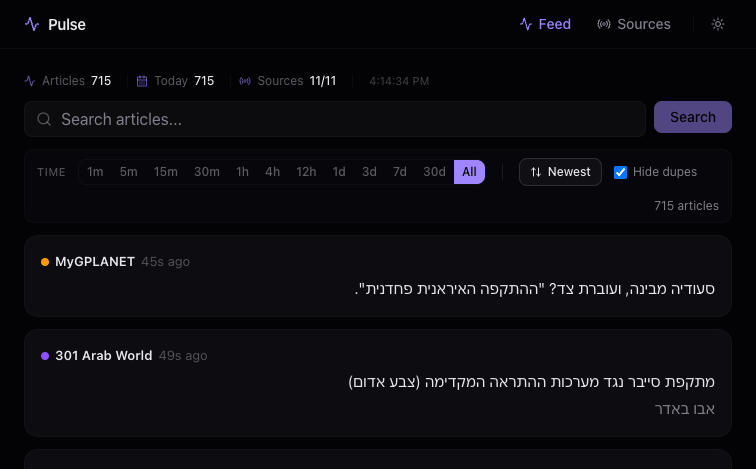
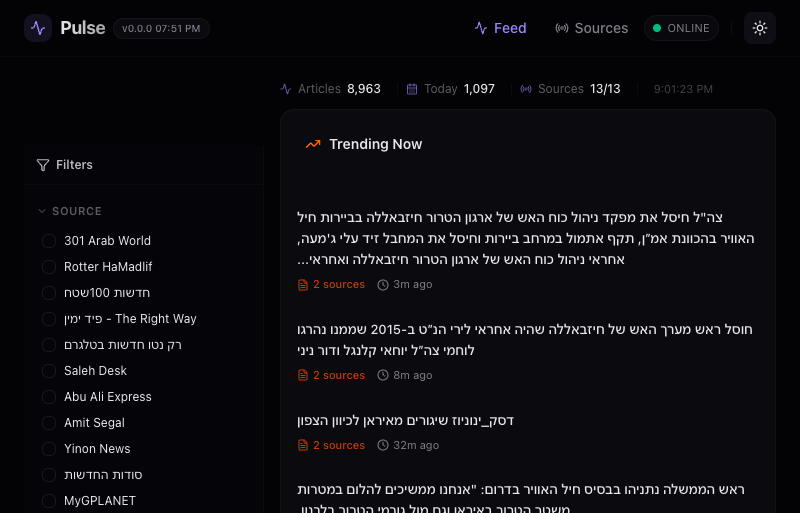
docs

diff --git a/backend/src/app/services/dedup.py b/backend/src/app/services/dedup.py
@@ -44,11 +44,30 @@ class DedupService:
         threshold = self._settings.dedup_similarity_threshold
         window_hours = self._settings.dedup_window_hours
 
-        query = text("""
+        # Build exclusion clause conditionally to avoid asyncpg
+        # AmbiguousParameterError when target_id is None (unsaved article).
+        target_id = target_article.id
+        if target_id is not None:
+            exclude_clause = "AND id != :target_id"
+            params: dict = {
+                "target_id": target_id,
+                "target_embedding": str(target_article.embedding),
+                "threshold": threshold,
+                "window_hours": window_hours,
+            }
+        else:
+            exclude_clause = ""
+            params = {
+                "target_embedding": str(target_article.embedding),
+                "threshold": threshold,
+                "window_hours": window_hours,
+            }
+
+        query = text(f"""
             SELECT id
             FROM articles
             WHERE is_duplicate = false
-              AND (:target_id IS NULL OR id != :target_id)
+              {exclude_clause}
               AND embedding IS NOT NULL
               AND published_at > now() - make_interval(hours => :window_hours)
               AND 1 - (embedding <=> cast(:target_embedding AS vector)) > :threshold
@@ -56,15 +75,7 @@ class DedupService:
             LIMIT 1
         """)
 
-        result = await self.db.execute(
-            query,
-            {
-                "target_id": target_article.id,
-                "target_embedding": str(target_article.embedding),
-                "threshold": threshold,
-                "window_hours": window_hours,
-            },
-        )
+        result = await self.db.execute(query, params)
         row = result.first()
         if row is None:
             return None

diff --git a/README.md b/README.md
@@ -60,14 +60,14 @@ Search for any public Telegram channel and add it with one click:
 
 ## Tech Stack
 
-| Layer | Technology |
-|-------|-----------|
-| Backend | Python 3.13, FastAPI, SQLAlchemy (async) + asyncpg, Alembic |
-| Frontend | React 19, TypeScript, Vite 7, Tailwind CSS 4, shadcn/ui |
-| Database | PostgreSQL 16 with pgvector (384-dim embeddings) |
-| Embeddings | sentence-transformers (paraphrase-multilingual-MiniLM-L12-v2) |
-| LLM | PydanticAI + Ollama (OpenAI-compatible endpoint) |
-| Task Runner | [mise](https://mise.jdx.dev/) |
+| Layer       | Technology                                                    |
+| ----------- | ------------------------------------------------------------- |
+| Backend     | Python 3.13, FastAPI, SQLAlchemy (async) + asyncpg, Alembic   |
+| Frontend    | React 19, TypeScript, Vite 7, Tailwind CSS 4, shadcn/ui       |
+| Database    | PostgreSQL 16 with pgvector (384-dim embeddings)              |
+| Embeddings  | sentence-transformers (paraphrase-multilingual-MiniLM-L12-v2) |
+| LLM         | PydanticAI + Ollama (OpenAI-compatible endpoint)              |
+| Task Runner | [mise](https://mise.jdx.dev/)                                 |
 
 ## Prerequisites
 
@@ -89,6 +89,7 @@ mise run setup
 ```
 
 This will:
+
 1. Copy `.env.example` to `.env`
 2. Install backend (uv) and frontend (pnpm) dependencies
 3. Start Docker services (PostgreSQL)
@@ -112,8 +113,9 @@ mise run dev
 ```
 
 This starts infrastructure (Docker), runs migrations, and launches:
-- **Backend API** at http://localhost:8000
-- **Frontend** at http://localhost:5173
+
+- **Backend API** at <http://localhost:8000>
+- **Frontend** at <http://localhost:5173>
 
 ### Deploy with Docker Compose
 
@@ -138,7 +140,7 @@ mise run serve
 
 ### Adding news sources
 
-1. Open http://localhost:5173
+1. Open <http://localhost:5173>
 2. Go to **Sources**
 3. Search for a Telegram channel and click **Add**
 4. Articles begin ingesting immediately
@@ -174,24 +176,24 @@ All configuration is through environment variables in `.env`. The defaults in `.
 
 ### All Environment Variables
 
-| Variable | Default | Description |
-|----------|---------|-------------|
-| `DATABASE_URL` | `postgresql+asyncpg://postgres:postgres@localhost:5432/news_dashboard` | PostgreSQL connection string |
-| `EMBEDDING_MODEL` | `paraphrase-multilingual-MiniLM-L12-v2` | Embedding model (sentence-transformers) |
-| `EMBEDDING_DIMENSIONS` | `384` | Embedding vector dimensions |
-| `DEDUP_SIMILARITY_THRESHOLD` | `0.92` | Cosine similarity threshold for dedup |
-| `DEDUP_WINDOW_HOURS` | `24` | Time window for dedup comparison |
-| `TELEGRAM_API_ID` | | Telegram API ID |
-| `TELEGRAM_API_HASH` | | Telegram API hash |
-| `TELEGRAM_SESSION_NAME` | `news_dashboard` | Telethon session file name |
-| `TELEGRAM_POLL_INTERVAL_SECONDS` | `60` | Telegram polling interval |
-| `INITIAL_BACKFILL_HOURS` | `24` | Hours of history to backfill on first run |
-| `POLLING_ENABLED` | `true` | Enable/disable source polling |
-| `POLLING_INTERVAL_SECONDS` | `300` | Source polling interval |
-| `LLM_ENABLED` | `true` | Enable LLM features (summaries, dedup verification, trending ranking) |
-| `LLM_MODEL` | `ollama/deepseek-v2:lite` | Local Ollama model name |
-| `LLM_API_BASE` | | Ollama base URL (e.g. `http://localhost:11434` or `http://host.docker.internal:11434`) |
-| `LLM_DEDUP_VERIFY` | `true` | Use LLM to confirm semantic duplicates |
+| Variable                         | Default                                                                | Description                                                                            |
+| -------------------------------- | ---------------------------------------------------------------------- | -------------------------------------------------------------------------------------- |
+| `DATABASE_URL`                   | `postgresql+asyncpg://postgres:postgres@localhost:5432/news_dashboard` | PostgreSQL connection string                                                           |
+| `EMBEDDING_MODEL`                | `paraphrase-multilingual-MiniLM-L12-v2`                                | Embedding model (sentence-transformers)                                                |
+| `EMBEDDING_DIMENSIONS`           | `384`                                                                  | Embedding vector dimensions                                                            |
+| `DEDUP_SIMILARITY_THRESHOLD`     | `0.92`                                                                 | Cosine similarity threshold for dedup                                                  |
+| `DEDUP_WINDOW_HOURS`             | `24`                                                                   | Time window for dedup comparison                                                       |
+| `TELEGRAM_API_ID`                |                                                                        | Telegram API ID                                                                        |
+| `TELEGRAM_API_HASH`              |                                                                        | Telegram API hash                                                                      |
+| `TELEGRAM_SESSION_NAME`          | `news_dashboard`                                                       | Telethon session file name                                                             |
+| `TELEGRAM_POLL_INTERVAL_SECONDS` | `60`                                                                   | Telegram polling interval                                                              |
+| `INITIAL_BACKFILL_HOURS`         | `24`                                                                   | Hours of history to backfill on first run                                              |
+| `POLLING_ENABLED`                | `true`                                                                 | Enable/disable source polling                                                          |
+| `POLLING_INTERVAL_SECONDS`       | `300`                                                                  | Source polling interval                                                                |
+| `LLM_ENABLED`                    | `true`                                                                 | Enable LLM features (summaries, dedup verification, trending ranking)                  |
+| `LLM_MODEL`                      | `ollama/deepseek-v2:lite`                                              | Local Ollama model name                                                                |
+| `LLM_API_BASE`                   |                                                                        | Ollama base URL (e.g. `http://localhost:11434` or `http://host.docker.internal:11434`) |
+| `LLM_DEDUP_VERIFY`               | `true`                                                                 | Use LLM to confirm semantic duplicates                                                 |
 
 ## Architecture
 
